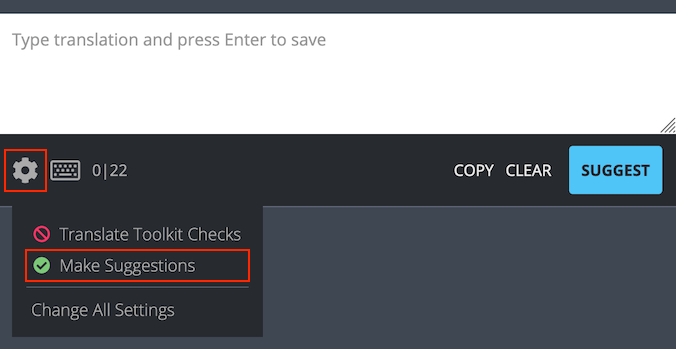
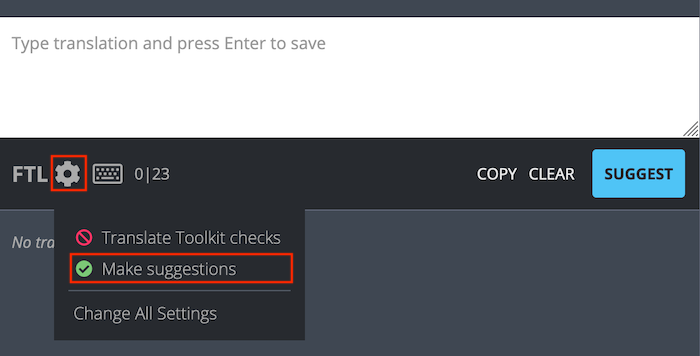
Update capitalization
Following https://github.com/mozilla/pontoon/pull/2842

Changed region(s): [[0.0, 0.4298, 0.466, 0.9742], [0.0, 0.0287, 1.0, 0.6017], [0.0, 0.086, 0.497, 0.1433]]

diff --git a/src/tools/pontoon/translate.md b/src/tools/pontoon/translate.md
@@ -23,11 +23,11 @@ When the user is in *Translation Mode*, a green `SAVE` button will be displayed 
 
 ### Manually switch to suggestion mode
 
-Even if the user has permissions to add translations directly, submitting suggestions to be reviewed by another person helps ensure quality. To manually switch to *Suggestion Mode*, click the settings icon in the lower-left side of the editing space and select `Make Suggestions`. The `SUGGEST` button will be displayed in the lower-right side of the editing space, replacing the green `SAVE` button.
+Even if the user has permissions to add translations directly, submitting suggestions to be reviewed by another person helps ensure quality. To manually switch to *Suggestion Mode*, click the settings icon in the lower-left side of the editing space and select `Make suggestions`. The `SUGGEST` button will be displayed in the lower-right side of the editing space, replacing the green `SAVE` button.
 
-![Make suggestions enabled](../../assets/images/pontoon/translate/activate_suggest.png "Setting menu in the editing space, with the Make Suggestions menu enabled")
+![Make suggestions enabled](../../assets/images/pontoon/translate/activate_suggest.png "Setting menu in the editing space, with the Make suggestions menu enabled")
 
-To switch back to *Translation Mode*, click the settings icon again and turn off `Make Suggestions`.
+To switch back to *Translation Mode*, click the settings icon again and turn off `Make suggestions`.
 
 ## Reviewing strings
 
@@ -39,7 +39,7 @@ If the current translation is acceptable, either click on the `APPROVE` button i
 
 If the current translation is **not** acceptable, it can be rejected by clicking the reject icon to the right of the suggestion. After rejecting a suggestion or pretranslation, it’s also possible to delete it completely by clicking the trashcan icon. In the case of pretranslations, the rejected text will be also removed from version control systems (where applicable).
 
-Alternatively, it’s possible to provide a different suggestion: turn on `Make Suggestions`, edit the translation as appropriate, and click `SUGGEST`. This will add the translation as a new suggested string.
+Alternatively, it’s possible to provide a different suggestion: turn on `Make suggestions`, edit the translation as appropriate, and click `SUGGEST`. This will add the translation as a new suggested string.
 
 ## Quality checks
 
